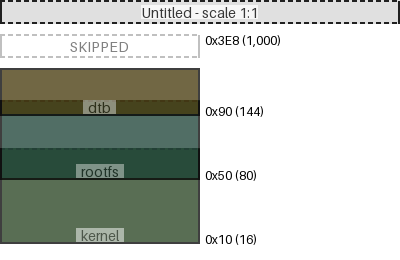
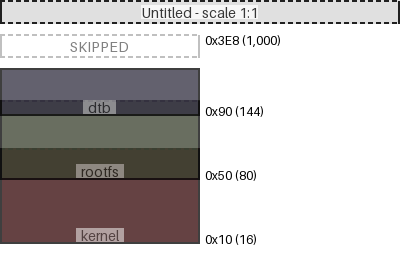
fixed bug where a high draw_scale would not leave room for a voidregion (if one was requried)

Changed region(s): [[0.0, 0.5538, 0.51, 0.9538], [0.0, 0.2462, 0.51, 0.4615]]

diff --git a/mm/diagram.py b/mm/diagram.py
@@ -13,7 +13,7 @@ import pathlib
 import logging
 import collections
 
-from typing import List, Dict, Literal, Tuple
+from typing import List, Dict, Literal, Tuple, DefaultDict
 
 import mm.image
 import mm.metamodel
@@ -68,7 +68,7 @@ class MemoryMapDiagram:
         self.voidregion = mm.image.VoidRegionImage(
             self.name,
             w = (self.width - self.addr_col_width_percent - (self.width//5)), 
-            h = (Diagram.model.text_size + 10) // self.draw_scale,
+            h = (Diagram.model.text_size + 10),
             font_size = Diagram.model.text_size,
             fill_colour = Diagram.model.void_fill_colour,
             line_colour = Diagram.model.void_line_colour)
@@ -177,7 +177,7 @@ class MemoryMapDiagram:
         Then draw the regions onto a larger memory map image. """
 
         redux_subgroup_idx = 0
-        redux_subgroup = collections.defaultdict(list)
+        redux_subgroup: DefaultDict = collections.defaultdict(list)
 
         for memregion in memregion_list:
             # start adding memregions to the current subgroup...
@@ -233,24 +233,23 @@ class MemoryMapDiagram:
                     last_void_pos = next_void_pos + region.img.height + void_padding
                 
 
-        # TODO add for voidregion if top most graphic block
-        if group_idx == len(redux_subgroup) - 1 and region_idx == len(redux_subgroup[group_idx]) - 1:
 
-            if isinstance(region, mm.image.VoidRegionImage):
-                map_img_redux = self._add_label(
-                    dest=map_img_redux, 
-                    xy=mm.image.Point(region.img.width + 5, next_void_pos + region.img.height), 
-                    text=f"0x{self.max_address:X}" + " (" + f"{self.max_address:,}" + ")", 
-                    font_size=Diagram.model.address_text_size,
-                    y_origin="bottom")
-                
-            if isinstance(region, mm.image.MemoryRegionImage):
-                map_img_redux = self._add_label(
-                    dest=map_img_redux, 
-                    xy=mm.image.Point(region.img.width + 5, next_void_pos - void_padding), 
-                    text=f"0x{self.max_address:X}" + " (" + f"{self.max_address:,}" + ")", 
-                    font_size=region.metadata.address_text_size,
-                    y_origin="bottom")
+        last_region = redux_subgroup[len(redux_subgroup) - 1][-1]
+        if isinstance(last_region, mm.image.VoidRegionImage):
+            map_img_redux = self._add_label(
+                dest=map_img_redux, 
+                xy=mm.image.Point(last_region.img.width + 5, next_void_pos + last_region.img.height), 
+                text=f"0x{self.max_address:X}" + " (" + f"{self.max_address:,}" + ")", 
+                font_size=Diagram.model.address_text_size,
+                y_origin="bottom")
+            
+        if isinstance(last_region, mm.image.MemoryRegionImage):
+            map_img_redux = self._add_label(
+                dest=map_img_redux, 
+                xy=mm.image.Point(last_region.img.width + 5, next_void_pos - void_padding), 
+                text=f"0x{self.max_address:X}" + " (" + f"{self.max_address:,}" + ")", 
+                font_size=last_region.metadata.address_text_size,
+                y_origin="bottom")
 
         min_bbox = None
         if not Diagram.pargs.trim_whitespace:

diff --git a/tests/test_docs.py b/tests/test_docs.py
@@ -275,7 +275,7 @@ def test_generate_doc_region_exceeds_height_no_maxaddress_set(file_setup, zynqmp
                 assert mmap.max_address == 4016
                 assert mmap.max_address_calculated == True
                 assert mmap.draw_scale == 2
-            if mname == 'Boot Image':
+            if mname == 'Flash':
                 # only one region so this is simply "Boot Image" size
                 assert mmap.max_address == int("0xFFFFFF", 16)
                 assert mmap.max_address_calculated == True
@@ -331,11 +331,12 @@ def test_generate_doc_region_freespace_exceeds_height_higher_maxaddress_set(file
                     assert mmap.max_address == int("0xFFFFFFFF", 16)
                     assert mmap.max_address_calculated == False
                     assert mmap.draw_scale == 2
-                if mname == 'Boot Image':
+                if mname == 'Flash':
                     # overridden by user
                     assert mmap.max_address == int("0xFFFFFFFF", 16)
                     assert mmap.max_address_calculated == False
-                    assert mmap.draw_scale == 6766
+                    # NOTE: draw_scale has been adjusted because it didn't allow space for a void region
+                    assert mmap.draw_scale == 6866
 
             
 

diff --git a/mm/metamodel.py b/mm/metamodel.py
@@ -441,7 +441,11 @@ class Diagram(ConfigParent):
                     logging.warning(f"'{mname}' Region freespace exceeds diagram height: {memory_region.freespace} > {self.height}.")
                     logging.warning(f"You have set your 'max_address' to {memory_map.max_address} but none of your regions are using the excessive empty space this has created.")
                     logging.warning(f"Drawing ratio (1:{str(memory_map.draw_scale)}) will be readjusted.")
-                    memory_map.draw_scale = math.ceil(largest_region / memory_map.height)
+                    memory_map.draw_scale = math.ceil((largest_region) / memory_map.height)
+                    # if the 'draw_scale' means we end up close to the diagram top edge 
+                    # then add some space for a voidregion (if any)
+                    if math.ceil(largest_region / memory_map.draw_scale) >= memory_map.height:
+                        memory_map.draw_scale = memory_map.draw_scale + 100
                     logging.warning(f"Recalculating drawing ratio: (1:{str(memory_map.draw_scale)})")
 
         return self

diff --git a/doc/example/example_three_maps.md b/doc/example/example_three_maps.md
@@ -1,10 +1,10 @@
 ![memory map diagram](example_three_maps_redux.png)
 |map|region|origin|size|free Space|collisions|links|draw scale|
 |:-|:-|:-|:-|:-|:-|:-|:-|
-|DRAM|<span style='color:(19, 68, 64)'>Blob5</span>|0x78 (120)|0x20 (32)|0x0 (0)|||1:1|
-|DRAM|<span style='color:(17, 62, 42)'>Blob3</span>|0x50 (80)|0x20 (32)|0x8 (8)|||1:1|
-|flash|<span style='color:(19, 0, 27)'>Blob7</span>|0x50 (80)|0x20 (32)|0x0 (0)||('DRAM', 'Blob3')<BR>('DRAM', 'Blob5')|1:1|
-|DRAM|<span style='color:(60, 16, 7)'>Blob4</span>|0x28 (40)|0x20 (32)|0x8 (8)|||1:1|
-|flash|<span style='color:(33, 64, 68)'>Blob6</span>|0xa (10)|0x3c (60)|0xa (10)|||1:1|
-|eMMC|<span style='color:(29, 24, 62)'>Blob1</span>|0x0 (0)|0x20 (32)|0x0 (0)||('DRAM', 'Blob2')<BR>('DRAM', 'Blob4')|1:1|
-|DRAM|<span style='color:(32, 63, 18)'>Blob2</span>|0x0 (0)|0x20 (32)|0x8 (8)|||1:1|
+|DRAM|<span style='color:(50, 63, 36)'>Blob5</span>|0x78 (120)|0x20 (32)|0x0 (0)|||1:1|
+|DRAM|<span style='color:(53, 28, 65)'>Blob3</span>|0x50 (80)|0x20 (32)|0x8 (8)|||1:1|
+|flash|<span style='color:(59, 42, 61)'>Blob7</span>|0x50 (80)|0x20 (32)|0x0 (0)||('DRAM', 'Blob3')<BR>('DRAM', 'Blob5')|1:1|
+|DRAM|<span style='color:(5, 59, 8)'>Blob4</span>|0x28 (40)|0x20 (32)|0x8 (8)|||1:1|
+|flash|<span style='color:(13, 9, 16)'>Blob6</span>|0xa (10)|0x3c (60)|0xa (10)|||1:1|
+|eMMC|<span style='color:(31, 59, 12)'>Blob1</span>|0x0 (0)|0x20 (32)|0x0 (0)||('DRAM', 'Blob2')<BR>('DRAM', 'Blob4')|1:1|
+|DRAM|<span style='color:(12, 9, 12)'>Blob2</span>|0x0 (0)|0x20 (32)|0x8 (8)|||1:1|

diff --git a/doc/example/example_two_maps.md b/doc/example/example_two_maps.md
@@ -1,8 +1,8 @@
 ![memory map diagram](example_two_maps_redux.png)
 |map|region|origin|size|free Space|collisions|links|draw scale|
 |:-|:-|:-|:-|:-|:-|:-|:-|
-|eMMC|<span style='color:(19, 68, 42)'>Blob4</span>|0x100 (256)|0x10 (16)|0x0 (0)|||1:1|
-|DRAM|<span style='color:(29, 68, 60)'>Blob3</span>|0x50 (80)|0x10 (16)|0x0 (0)|||1:1|
-|DRAM|<span style='color:(5, 44, 42)'>Blob5</span>|0x30 (48)|0x10 (16)|0x10 (16)|||1:1|
-|eMMC|<span style='color:(13, 18, 44)'>Blob1</span>|0x10 (16)|0x10 (16)|0xe0 (224)||('DRAM', 'Blob2')<BR>('DRAM', 'Blob3')|1:1|
-|DRAM|<span style='color:(5, 25, 64)'>Blob2</span>|0x10 (16)|0x10 (16)|0x10 (16)|||1:1|
+|eMMC|<span style='color:(42, 46, 36)'>Blob4</span>|0x100 (256)|0x10 (16)|0x0 (0)|||1:1|
+|DRAM|<span style='color:(3, 19, 15)'>Blob3</span>|0x50 (80)|0x10 (16)|0x0 (0)|||1:1|
+|DRAM|<span style='color:(50, 31, 24)'>Blob5</span>|0x30 (48)|0x10 (16)|0x10 (16)|||1:1|
+|eMMC|<span style='color:(61, 21, 67)'>Blob1</span>|0x10 (16)|0x10 (16)|0xe0 (224)||('DRAM', 'Blob2')<BR>('DRAM', 'Blob3')|1:1|
+|DRAM|<span style='color:(28, 63, 59)'>Blob2</span>|0x10 (16)|0x10 (16)|0x10 (16)|||1:1|

diff --git a/doc/example/region_freespace_exceeds_height-higher_maxaddress_set.md b/doc/example/region_freespace_exceeds_height-higher_maxaddress_set.md
@@ -1,6 +1,6 @@
 ![memory map diagram](region_freespace_exceeds_height-higher_maxaddress_set_redux.png)
 |map|region|origin|size|free Space|collisions|links|draw scale|
 |:-|:-|:-|:-|:-|:-|:-|:-|
-|Global System Address Map|<span style='color:(49, 57, 4)'>OCM</span>|0x7e0 (2016)|0x7d0 (2000)|0xfffff04f (4294963279)|||2:1|
-|Global System Address Map|<span style='color:(14, 2, 12)'>DDR Memory Controller</span>|0x10 (16)|0x3e8 (1000)|0x3e8 (1000)|||2:1|
-|Flash|<span style='color:(55, 52, 42)'>Boot Image</span>|0x0 (0)|0xffffff (16777215)|0xff000000 (4278190080)|||6766:1|
+|Global System Address Map|<span style='color:(32, 17, 52)'>OCM</span>|0x7e0 (2016)|0x7d0 (2000)|0xfffff04f (4294963279)|||2:1|
+|Global System Address Map|<span style='color:(38, 60, 56)'>DDR Memory Controller</span>|0x10 (16)|0x3e8 (1000)|0x3e8 (1000)|||2:1|
+|Flash|<span style='color:(60, 39, 53)'>Boot Image</span>|0x0 (0)|0xffffff (16777215)|0xff000000 (4278190080)|||6866:1|

diff --git a/doc/example/region_exceeds_height-no_maxaddress_set.md b/doc/example/region_exceeds_height-no_maxaddress_set.md
@@ -1,6 +1,6 @@
 ![memory map diagram](region_exceeds_height-no_maxaddress_set_redux.png)
 |map|region|origin|size|free Space|collisions|links|draw scale|
 |:-|:-|:-|:-|:-|:-|:-|:-|
-|Global System Address Map|<span style='color:(48, 24, 50)'>OCM</span>|0x7e0 (2016)|0x7d0 (2000)|0x0 (0)|||2:1|
-|Global System Address Map|<span style='color:(63, 57, 68)'>DDR Memory Controller</span>|0x10 (16)|0x3e8 (1000)|0x3e8 (1000)|||2:1|
-|Flash|<span style='color:(25, 43, 24)'>Boot Image</span>|0x0 (0)|0xffffff (16777215)|0x0 (0)|||6766:1|
+|Global System Address Map|<span style='color:(37, 6, 48)'>OCM</span>|0x7e0 (2016)|0x7d0 (2000)|0x0 (0)|||2:1|
+|Global System Address Map|<span style='color:(8, 46, 62)'>DDR Memory Controller</span>|0x10 (16)|0x3e8 (1000)|0x3e8 (1000)|||2:1|
+|Flash|<span style='color:(65, 0, 36)'>Boot Image</span>|0x0 (0)|0xffffff (16777215)|0x0 (0)|||6766:1|

diff --git a/doc/example/example_collisions.md b/doc/example/example_collisions.md
@@ -1,6 +1,6 @@
 ![memory map diagram](example_collisions_redux.png)
 |map|region|origin|size|free Space|collisions|links|draw scale|
 |:-|:-|:-|:-|:-|:-|:-|:-|
-|Untitled|<span style='color:(67, 53, 6)'>dtb</span>|0x90 (144)|0x30 (48)|0x328 (808)| rootfs @ 0x90 ||1:1|
-|Untitled|<span style='color:(24, 63, 50)'>rootfs</span>|0x50 (80)|0x50 (80)|-0x10 (-16)| kernel @ 0x50 <BR> dtb @ 0x90 ||1:1|
-|Untitled|<span style='color:(35, 62, 28)'>kernel</span>|0x10 (16)|0x60 (96)|-0x20 (-32)| rootfs @ 0x50 ||1:1|
+|Untitled|<span style='color:(48, 45, 63)'>dtb</span>|0x90 (144)|0x30 (48)|0x328 (808)| rootfs @ 0x90 ||1:1|
+|Untitled|<span style='color:(56, 63, 44)'>rootfs</span>|0x50 (80)|0x50 (80)|-0x10 (-16)| kernel @ 0x50 <BR> dtb @ 0x90 ||1:1|
+|Untitled|<span style='color:(51, 4, 5)'>kernel</span>|0x10 (16)|0x60 (96)|-0x20 (-32)| rootfs @ 0x50 ||1:1|

diff --git a/doc/example/example_normal.md b/doc/example/example_normal.md
@@ -1,6 +1,6 @@
 ![memory map diagram](example_normal_redux.png)
 |map|region|origin|size|free Space|collisions|links|draw scale|
 |:-|:-|:-|:-|:-|:-|:-|:-|
-|Untitled|<span style='color:(63, 26, 3)'>dtb</span>|0x190 (400)|0x30 (48)|0x228 (552)|||1:1|
-|Untitled|<span style='color:(49, 68, 21)'>rootfs</span>|0x50 (80)|0x30 (48)|0x110 (272)|||1:1|
-|Untitled|<span style='color:(40, 29, 10)'>kernel</span>|0x10 (16)|0x30 (48)|0x10 (16)|||1:1|
+|Untitled|<span style='color:(12, 2, 28)'>dtb</span>|0x190 (400)|0x30 (48)|0x228 (552)|||1:1|
+|Untitled|<span style='color:(40, 11, 24)'>rootfs</span>|0x50 (80)|0x30 (48)|0x110 (272)|||1:1|
+|Untitled|<span style='color:(33, 53, 20)'>kernel</span>|0x10 (16)|0x30 (48)|0x10 (16)|||1:1|
